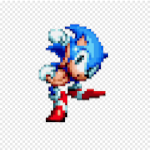
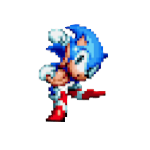
Adicionando imagem png de verdade e criando função de clisão e reset

diff --git a/primeiroJogo/sonico.js b/primeiroJogo/sonico.js
@@ -1,5 +1,6 @@
 
 const sonico = document.querySelector(".sonico");
+const espinho = document.querySelector(".espinhos")
 const game = document.querySelector(".game");
 
 game.addEventListener("click", function(event){
@@ -14,4 +15,21 @@ function pular(){
             sonico.classList.remove("pulo")
         },400)
     }
+}
+
+let estaVivo = setInterval(() =>{
+
+    //EIXO Y
+    let sonicoTop = parseInt(window.getComputedStyle(sonico).getPropertyValue("top"));
+    //EIXO X
+    let espinhoLeft = parseInt(window.getComputedStyle(espinho).getPropertyValue("left"));
+
+    if(espinhoLeft < 60 && espinhoLeft > 0 && sonicoTop >= 240){
+        alert("Tente novamente")
+        resetar()
+    }
+},10)
+
+function resetar(){
+    espinhoLeft = 570
 }

diff --git a/primeiroJogo/sonico.css b/primeiroJogo/sonico.css
@@ -81,3 +81,25 @@
         top: 240px;
     }
 }
+
+/*OBSTÁCULO*/
+.espinhos{
+    position: relative;
+    top: 210px;
+    background-image: url("../img/espinhos.png");
+    background-size: cover;
+    left: 570px;
+    width: 30px;
+    height: 30px;
+    animation: movimento 1.5s linear infinite;
+}
+
+@keyframes movimento {
+    0%{
+        left: 570px;
+    }
+    100%{
+        left: 0px;
+    }
+}
+
